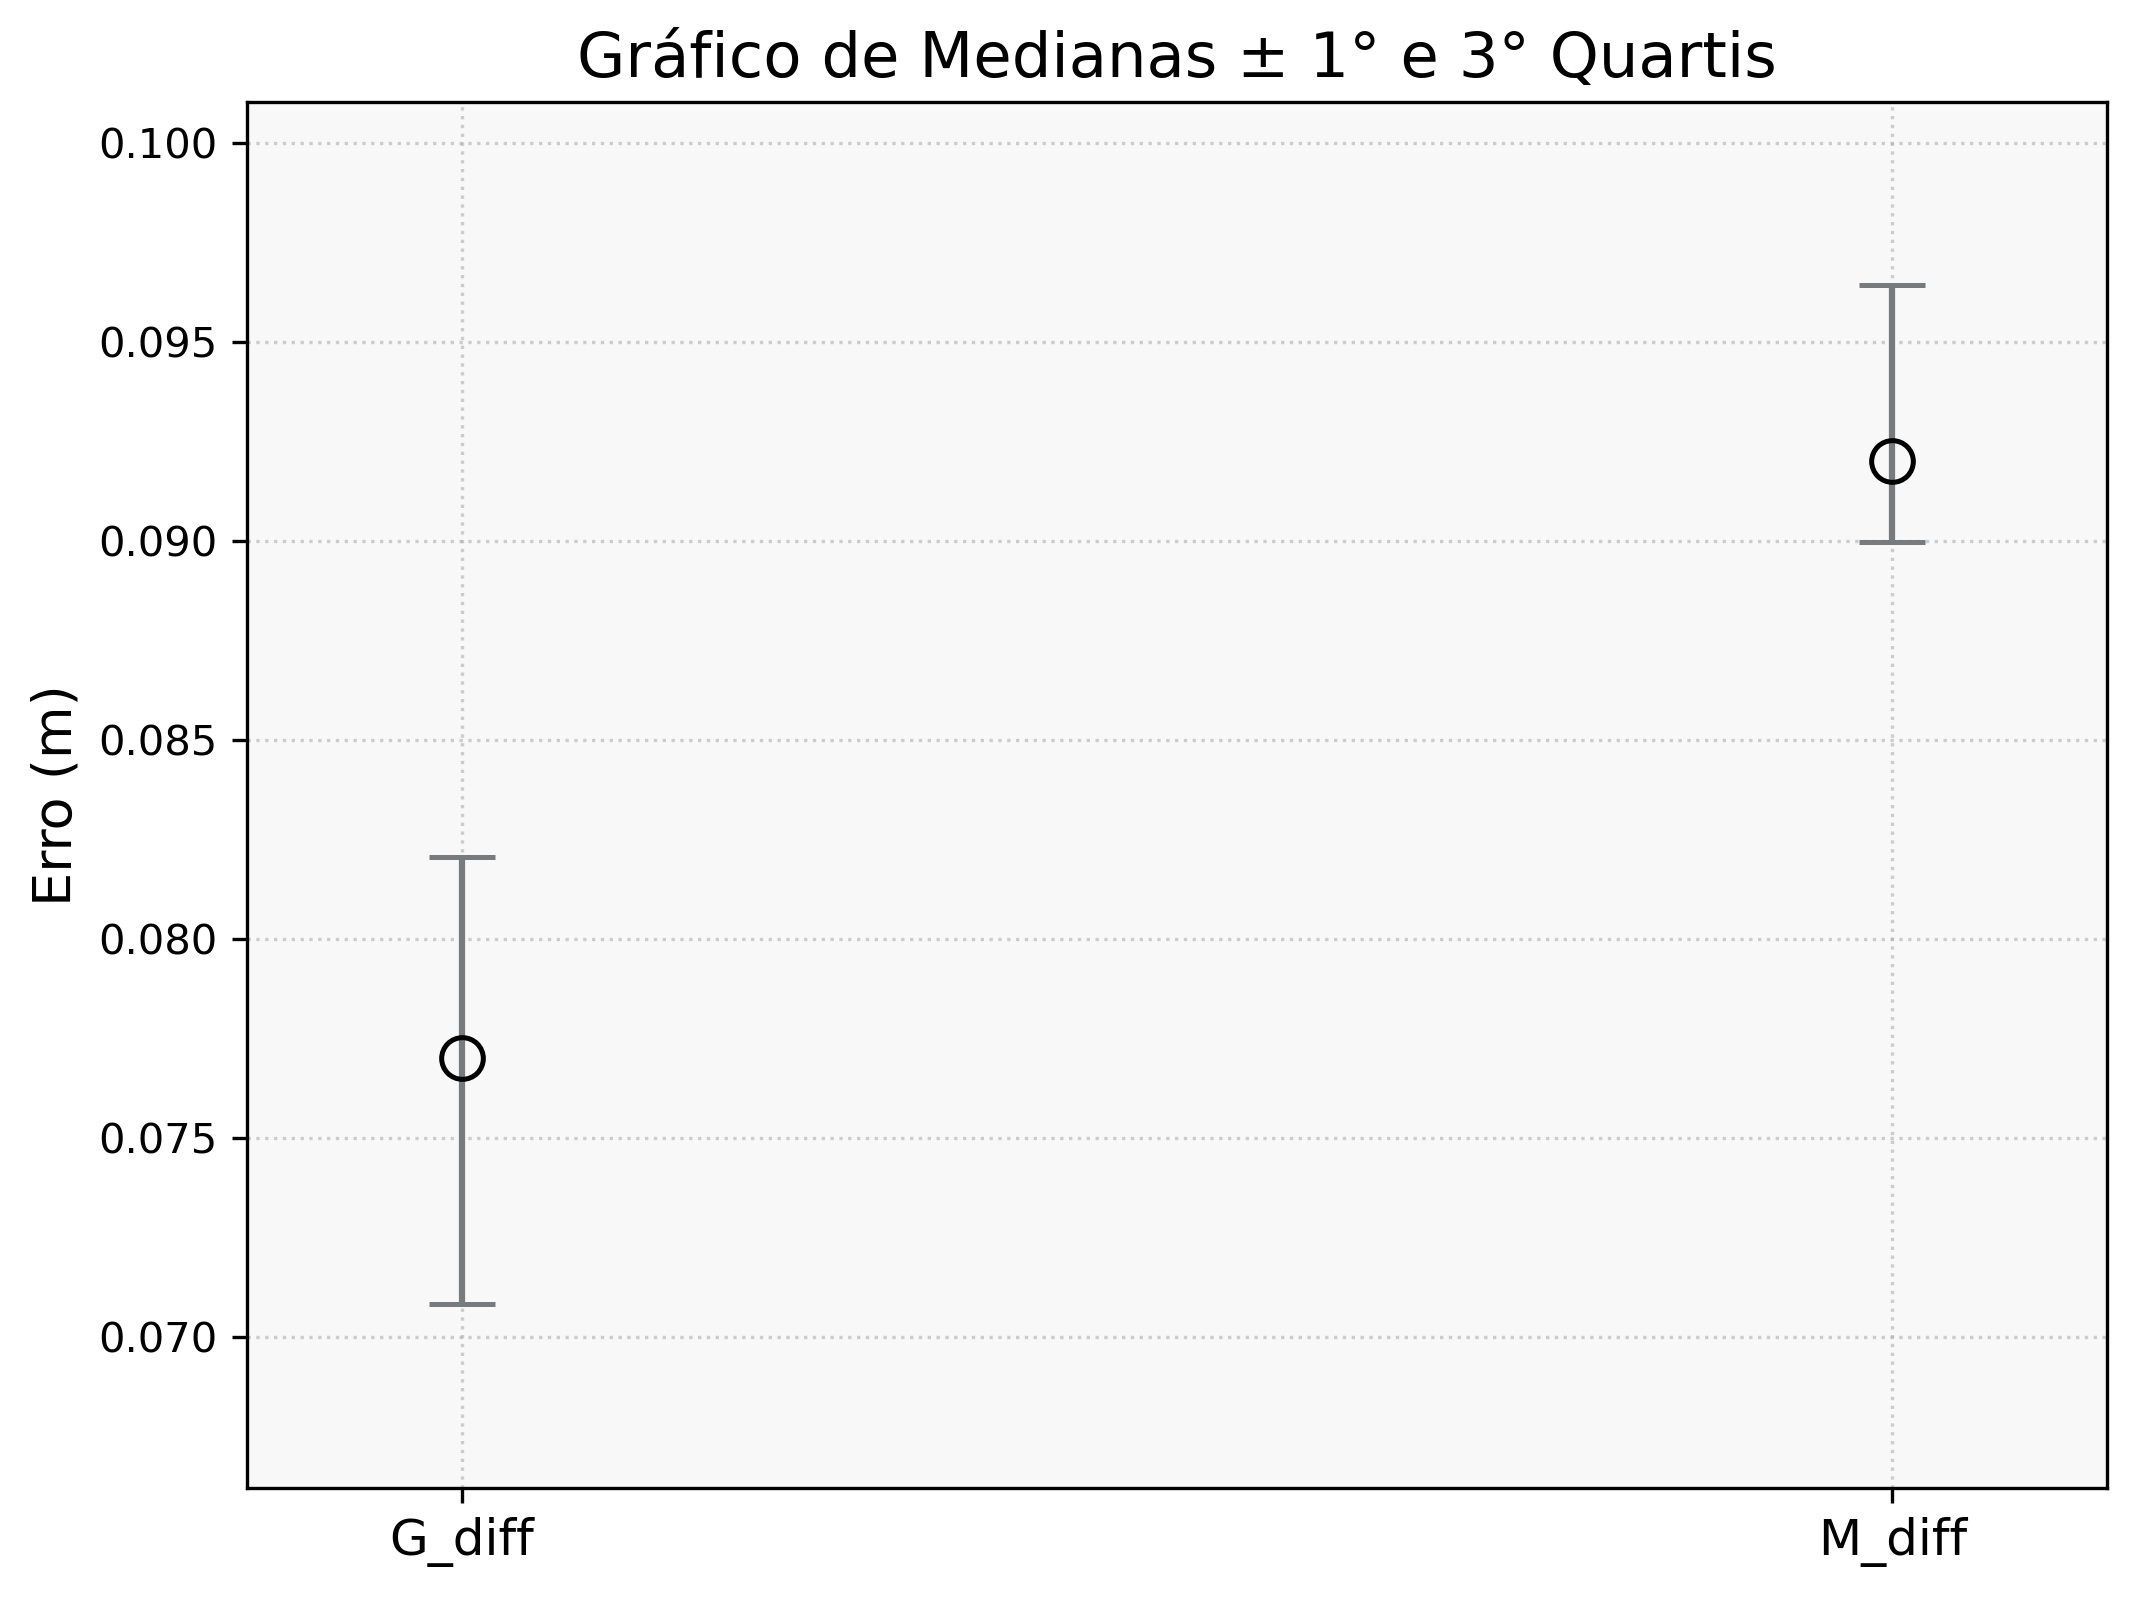
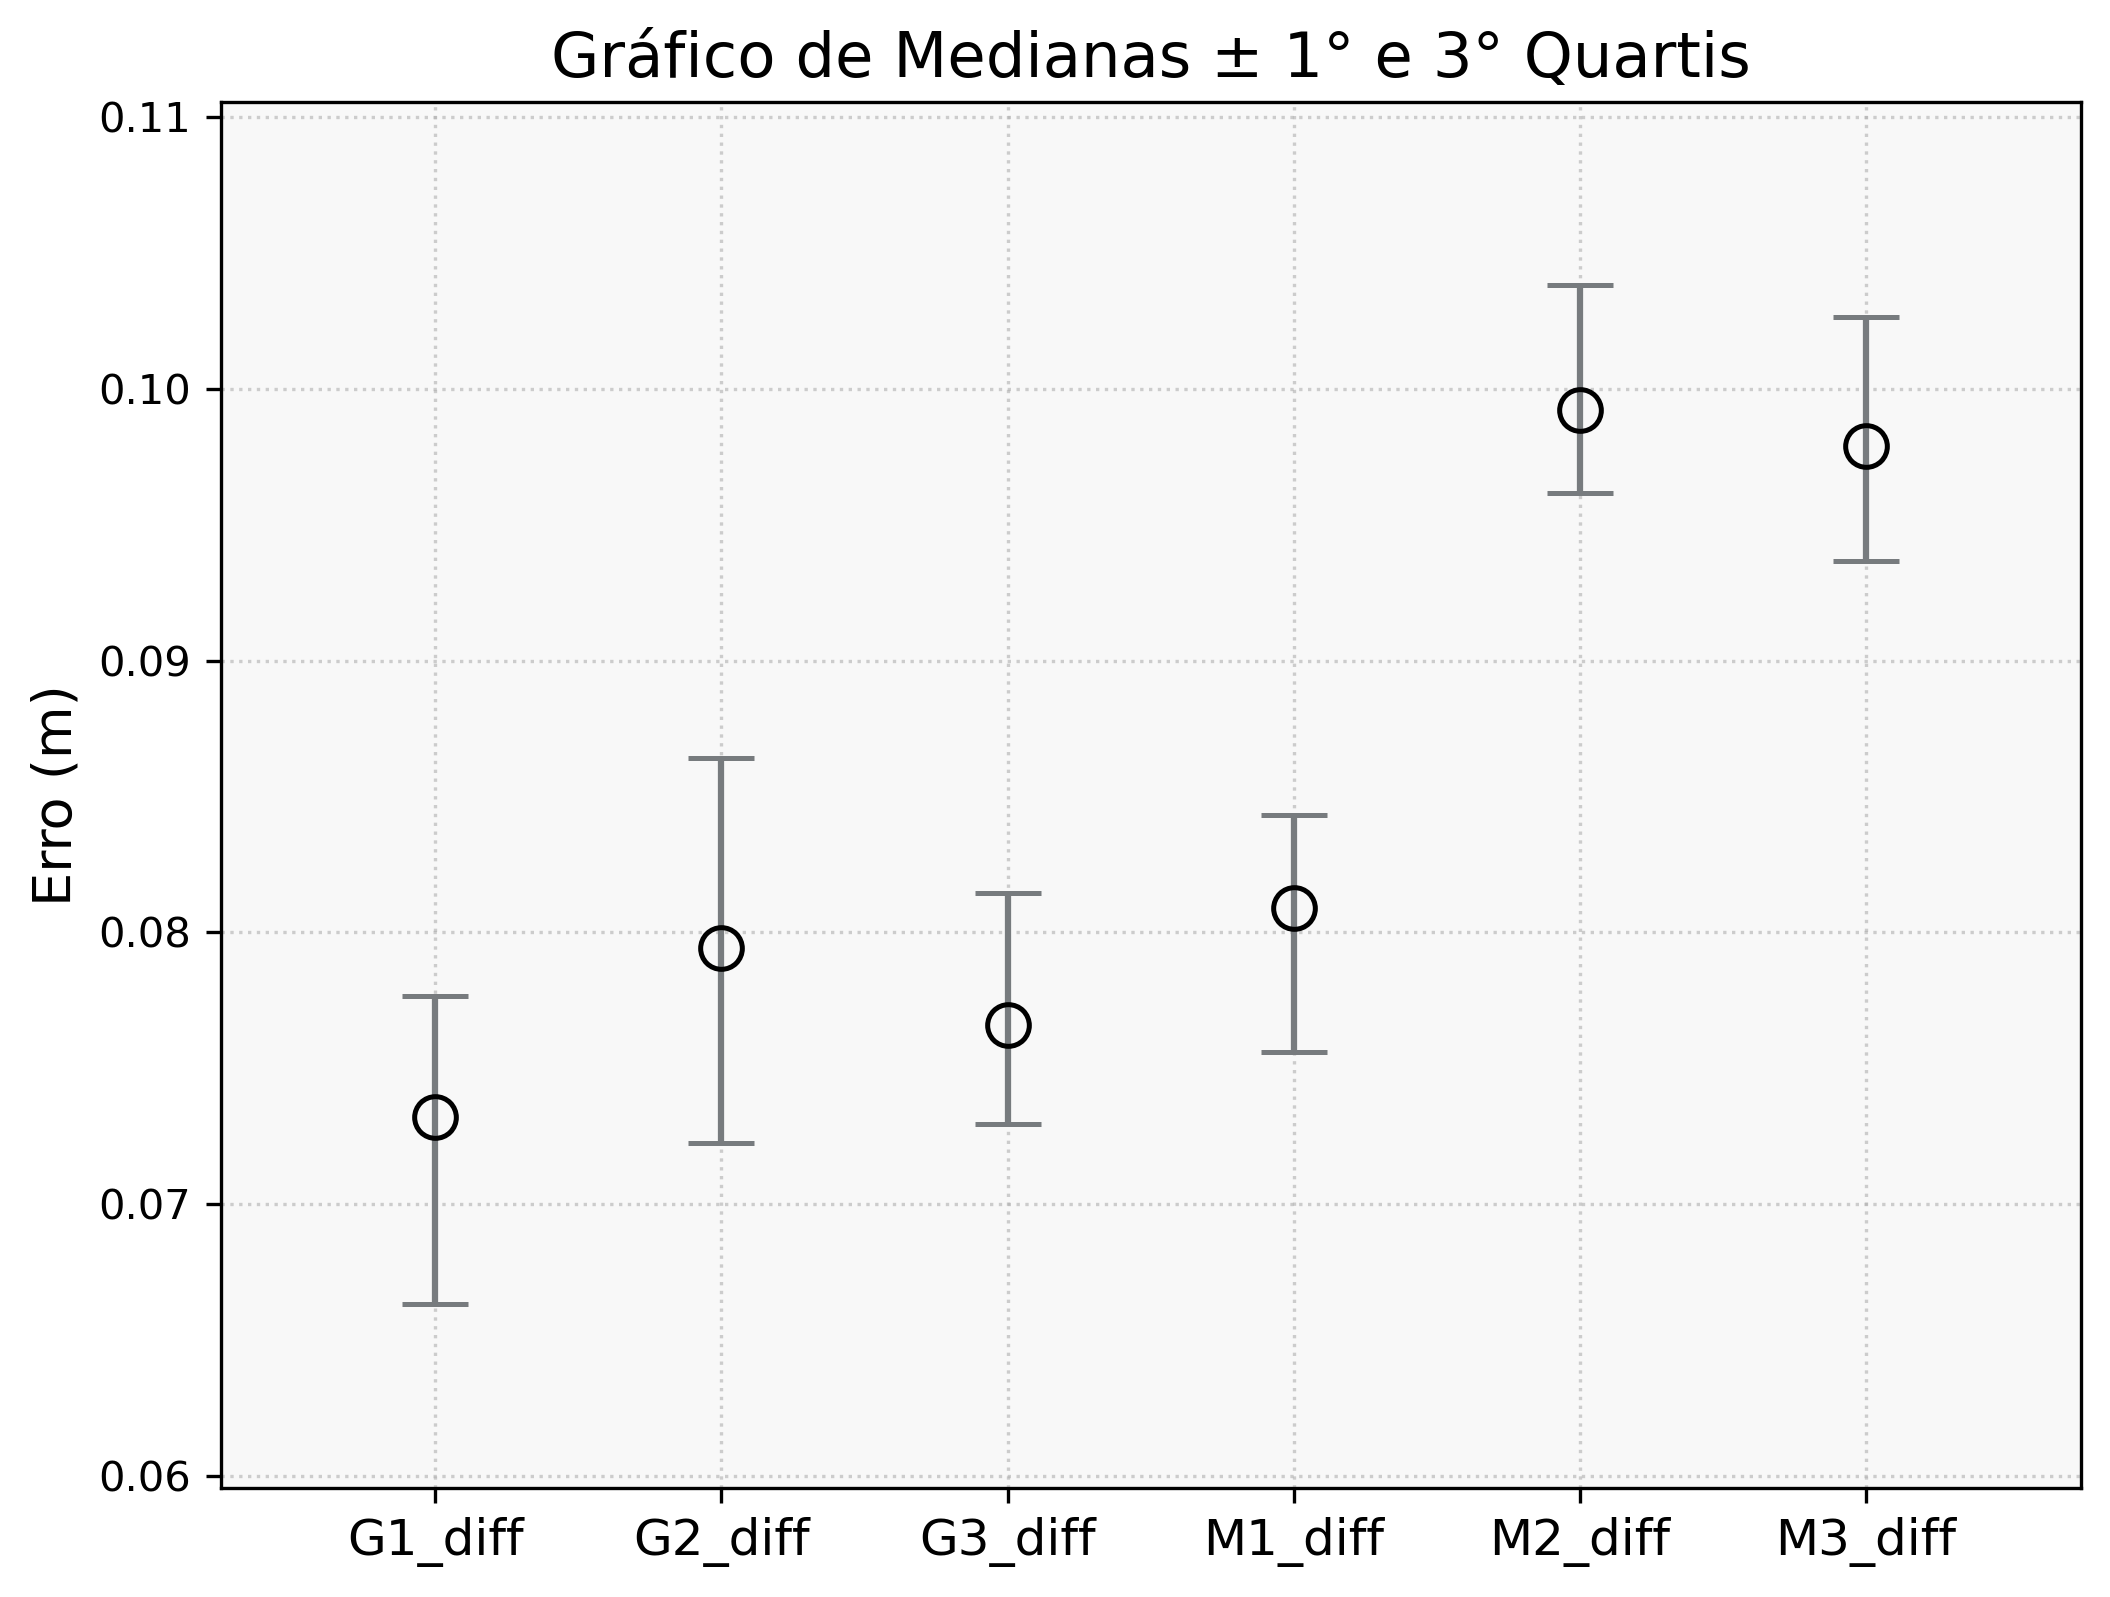
Adicionando erro 90% e  estátistica descritiva no fomrato ideal para analise.
Apesar de no estudo todos os formatos de análise terem uso prático, a versão escolhida para ser mantida no Github será G1xG2xG3xM1xM2xM3 (Guidão1xGuidão2xGuidão3xMochila1xMochila2xMochila2). Além disso foram acrescentados o erro erro da frequência acumulada até 90% dos dados e a estatistica descritiva dos dados em "RESULTS".

diff --git a/STATS_V2.py b/STATS_V2.py
@@ -36,13 +36,17 @@ for nome_sheet, df_alti in df_alti.items():
     df_dict = pd.read_excel(file_path, sheet_name=None)
 
     for nome_sheet, df_alti in df_dict.items():
-        df_alti.columns = ['PT', 'NIV', 'G', 'M']
+        df_alti.columns = ['PT', 'NIV', 'G1', 'G2', 'G3', 'M1', 'M2', 'M3']
 
     # Tratamentos (colunas a partir da terceira: V1, V2, V3, ...)
-    trats = ['G','M']
+    trats = ['G1','G2','G3','M1','M2','M3']
     const_column = {
-        "G": 1.407,
-        "M": 1.8773,
+        "G1": 1.407,
+        "G2": 1.407,
+        "G3": 1.407,
+        "M1": 1.890,
+        "M2": 1.862,
+        "M3": 1.880
     }     
 
     # DataFrame das diferenças
@@ -80,6 +84,9 @@ for nome_sheet, df_alti in df_alti.items():
 
     escrever_no_arquivo("\ndf_diff_abs.head():")
     escrever_no_arquivo(df_diff_abs.head().to_string())
+
+    escrever_no_arquivo("\nESTATÍSTICA DESCRITIVA df_diff (df_diff.describe()):")
+    escrever_no_arquivo(df_diff.describe().to_string())
 
     #=======================================================================
     #2. GRÁFICOS 
@@ -620,6 +627,10 @@ for nome_sheet, df_alti in df_alti.items():
     df = df_diff.copy()
     erros_concat = pd.concat([df[c] for c in df.columns], ignore_index=True).dropna()
     delta_h = erros_concat.values
+
+    # Percentil 90% (critério ET-CQDG)
+    p90 = np.percentile(np.abs(delta_h), 90)
+
     n = len(delta_h)
 
     if n == 0:
@@ -674,6 +685,7 @@ for nome_sheet, df_alti in df_alti.items():
             else:
                 escrever_no_arquivo("IC não calculado (n ≤ 1).")
             
+            escrever_no_arquivo(f"Erro absoluto correspondente a 90% (P90): {p90:.4f} m")
             escrever_no_arquivo("")
             escrever_no_arquivo("===== CLASSIFICAÇÃO POR CLASSE =====")
             
